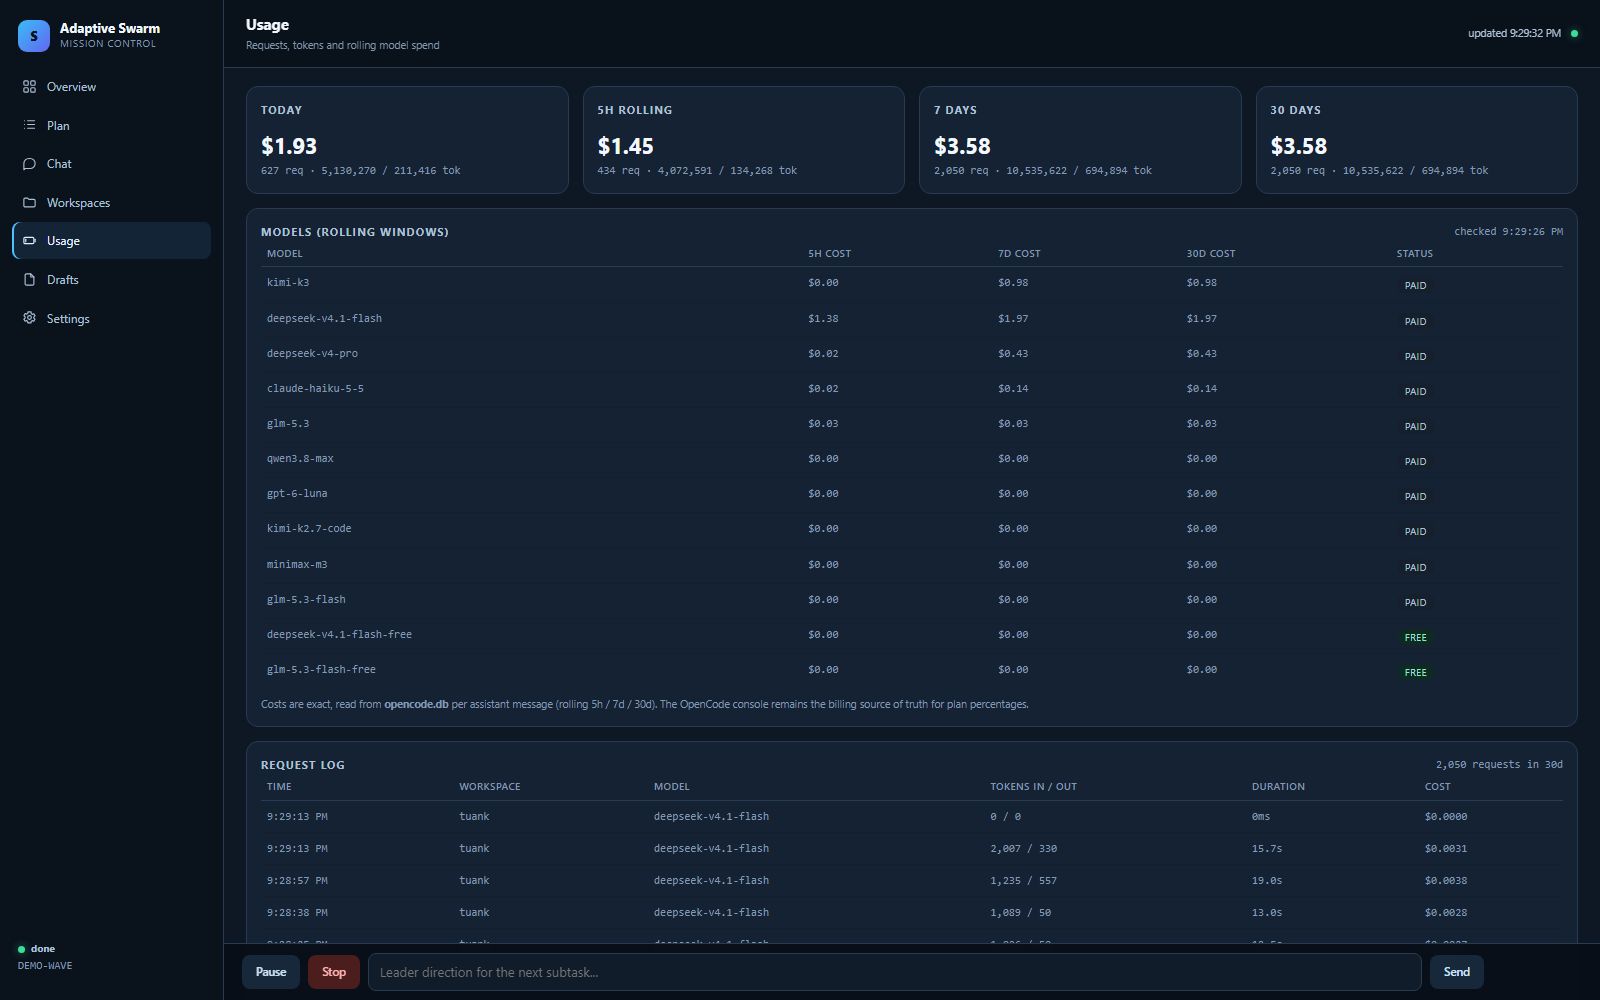
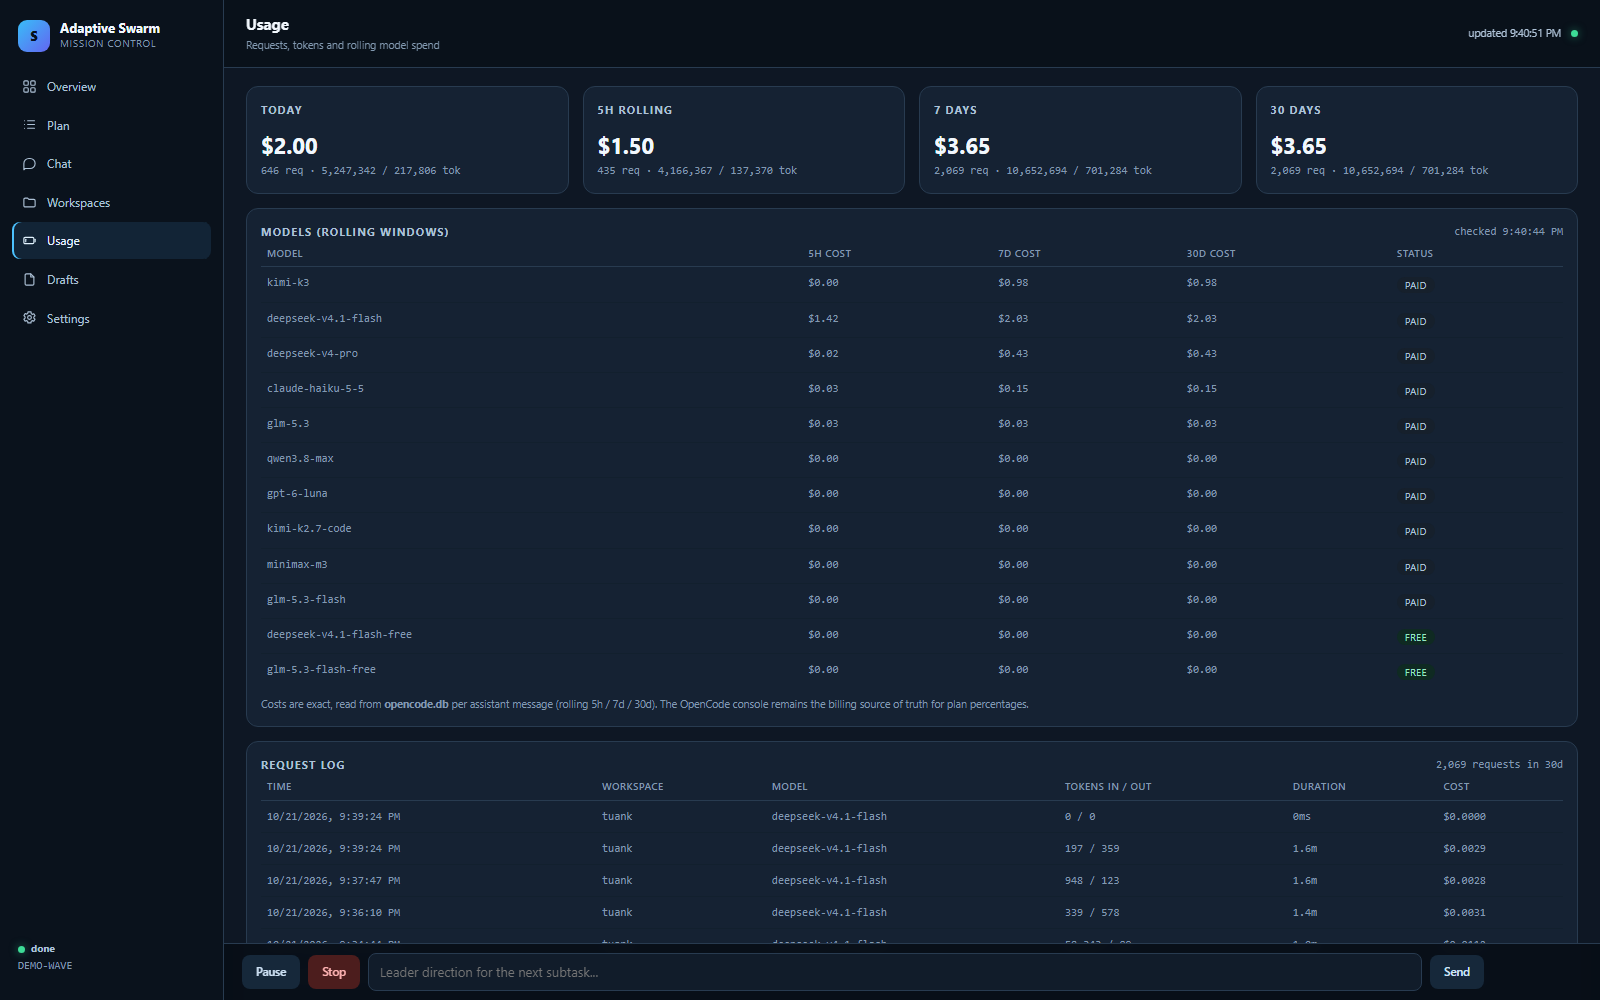
fix: exact usage cache/fallback, workspaces filter, poll guards

diff --git a/.agents/dashboard_ui.html b/.agents/dashboard_ui.html
@@ -425,7 +425,10 @@ function toast(text){
 }
 function authToken(){ return state.sessionToken || state.token; }
 
+let inFlight = false;
 async function refreshAll(){
+  if(inFlight) return;
+  inFlight = true;
   try{
     const runs = await api('/api/runs?filter=all');
     state.runs = runs.runs || [];
@@ -434,7 +437,10 @@ async function refreshAll(){
     ]);
     state.job = job; state.planState = plan; state.health = health;
     if(Date.now() - state.lastQuota > 15000){
-      state.quota = await api('/api/quota'); state.lastQuota = Date.now();
+      try{
+        state.quota = await api('/api/quota');
+        state.lastQuota = Date.now();
+      }catch(_){ /* keep the previous quota snapshot */ }
     }
     if(!state.selected){
       const first = state.runs.find((run) => run.task_id) || state.runs[0];
@@ -446,6 +452,8 @@ async function refreshAll(){
   }catch(error){
     $('#connDot').classList.add('off');
     $('#updatedAt').textContent = 'offline';
+  }finally{
+    inFlight = false;
   }
 }
 
@@ -735,7 +743,7 @@ function renderUsage(){
   $('#requestLog').innerHTML = `<table><thead><tr><th>Time</th><th>Workspace</th>
     <th>Model</th><th>Tokens in / out</th><th>Duration</th><th>Cost</th></tr></thead><tbody>
     ${requests.map((item) => `<tr>
-      <td class="mono">${new Date(item.t).toLocaleTimeString()}</td>
+      <td class="mono">${new Date(item.t).toLocaleString()}</td>
       <td class="mono muted">${esc((item.project || '').split(/[\\/]/).pop() || '-')}</td>
       <td class="mono">${esc(item.model.split('/').pop())}</td>
       <td class="mono">${num(item.tokens_in)} / ${num(item.tokens_out)}</td>

diff --git a/.agents/quota.py b/.agents/quota.py
@@ -105,10 +105,10 @@ def _connect() -> sqlite3.Connection:
     path = db_path()
     if not path.exists():
         raise FileNotFoundError(str(path))
-    return sqlite3.connect(f"file:{path.as_posix()}?mode=ro", uri=True)
+    return sqlite3.connect(path.resolve().as_uri() + "?mode=ro", uri=True)
 
 
-def read_messages(days: int = 31) -> list[dict]:
+def read_messages(days: int = 30) -> list[dict]:
     """Doc cost/token tung assistant message (rolling window chinh xac)."""
     cutoff = int((time.time() - days * 86400) * 1000)
     con = _connect()
@@ -173,7 +173,7 @@ def workspaces(*, limit: int = 50) -> list[dict]:
             left join session_v2 s on s.project_id = p.id
             where lower(replace(p.worktree, '\\', '/')) not like '%/appdata/local/temp/%'
               and lower(replace(p.worktree, '\\', '/')) not like '%/temp/%'
-              and lower(replace(p.worktree, '\\', '/')) not like '%/swarm_worker_%'
+              and instr(lower(replace(p.worktree, '\\', '/')), '/swarm_worker_') = 0
             group by lower(replace(p.worktree, '\\', '/'))
             having count(s.id) > 0
             order by coalesce(max(p.time_active), max(p.time_created)) desc
@@ -225,27 +225,23 @@ class QuotaTracker:
             self.requests = cached.get("requests") or []
             self.message_count = int(cached.get("message_count") or 0)
             self.available = bool(cached.get("available"))
+            self.error = cached.get("error")
             self.fetched_at = float(cached.get("at") or now)
             return self
 
         try:
-            messages = read_messages()
+            messages = read_messages(days=30)
             self._load(messages)
             self.available = True
             self.error = None
         except Exception as exc:                    # noqa: BLE001
+            self.usage = {window: {} for window in WINDOW_DAYS}
+            self.spend = {}
+            self.requests = []
+            self.message_count = 0
+            self.available = False
             self.error = f"db: {str(exc)[:160]}"
-            ok = False
-            for window, days in WINDOW_DAYS.items():
-                stats = read_stats(days, binary=self.binary)
-                if stats is None:
-                    continue
-                self.usage[window] = cost_by_model(stats)
-                ok = True
-            self.available = ok
         self.fetched_at = now
-        if not self.available:
-            self.error = self.error or "khong doc duoc usage"
         self._write_cache()
         return self
 
@@ -256,7 +252,7 @@ class QuotaTracker:
                    "month": now - 30 * 86400 * 1000}
         local = time.localtime()
         midnight = time.mktime((local.tm_year, local.tm_mon, local.tm_mday,
-                                0, 0, 0, 0, 0, 0)) * 1000
+                                0, 0, 0, 0, 0, -1)) * 1000
         self.usage = {window: {} for window in windows}
         for message in messages:
             for window, cutoff in windows.items():
@@ -289,11 +285,13 @@ class QuotaTracker:
     def _write_cache(self) -> None:
         try:
             self.cache_path.parent.mkdir(parents=True, exist_ok=True)
-            self.cache_path.write_text(json.dumps(
-                {"at": self.fetched_at, "available": self.available,
-                 "usage": self.usage, "spend": self.spend,
-                 "requests": self.requests, "message_count": self.message_count},
-                ensure_ascii=False, indent=2), encoding="utf-8")
+            payload = {"at": self.fetched_at, "available": self.available,
+                       "error": self.error, "usage": self.usage, "spend": self.spend,
+                       "requests": self.requests, "message_count": self.message_count}
+            tmp = self.cache_path.with_suffix(".tmp")
+            tmp.write_text(json.dumps(payload, ensure_ascii=False, indent=2),
+                           encoding="utf-8")
+            os.replace(tmp, self.cache_path)
         except OSError:
             pass
 
@@ -321,6 +319,9 @@ class QuotaTracker:
         if not cap:
             return {"model": model, "unlimited": True, "ok": True,
                     "windows": {}, "worst_pct": 0.0}
+        if not self.available:
+            return {"model": model, "unlimited": False, "ok": False,
+                    "unknown": True, "windows": {}, "worst_pct": 0.0}
         windows: dict[str, dict] = {}
         model_ok = True
         worst = 0.0
